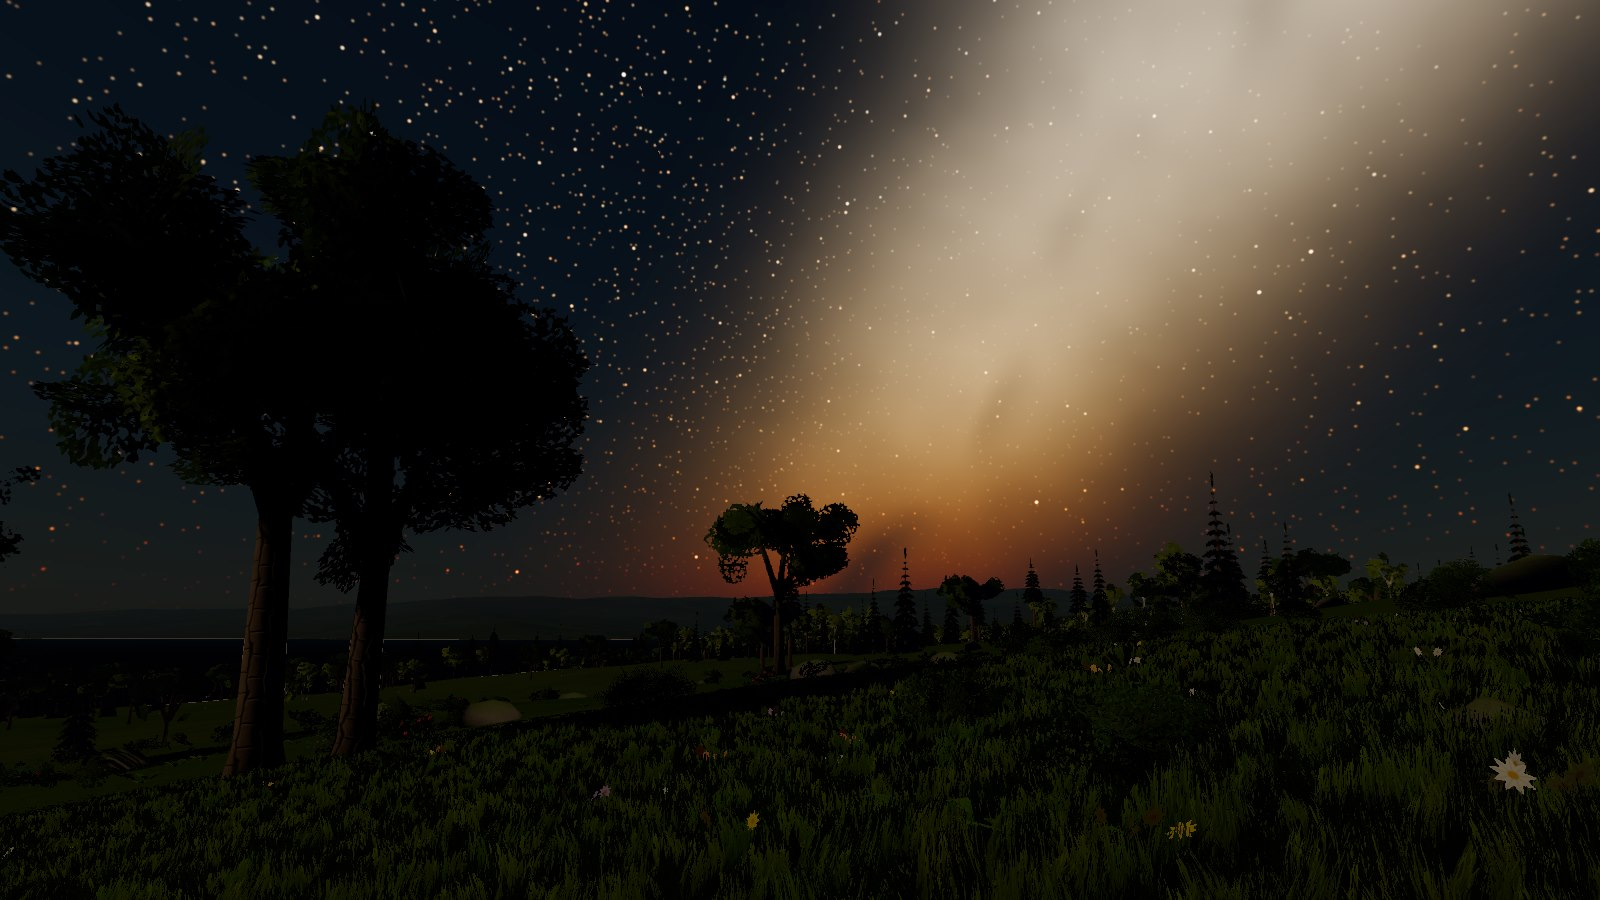
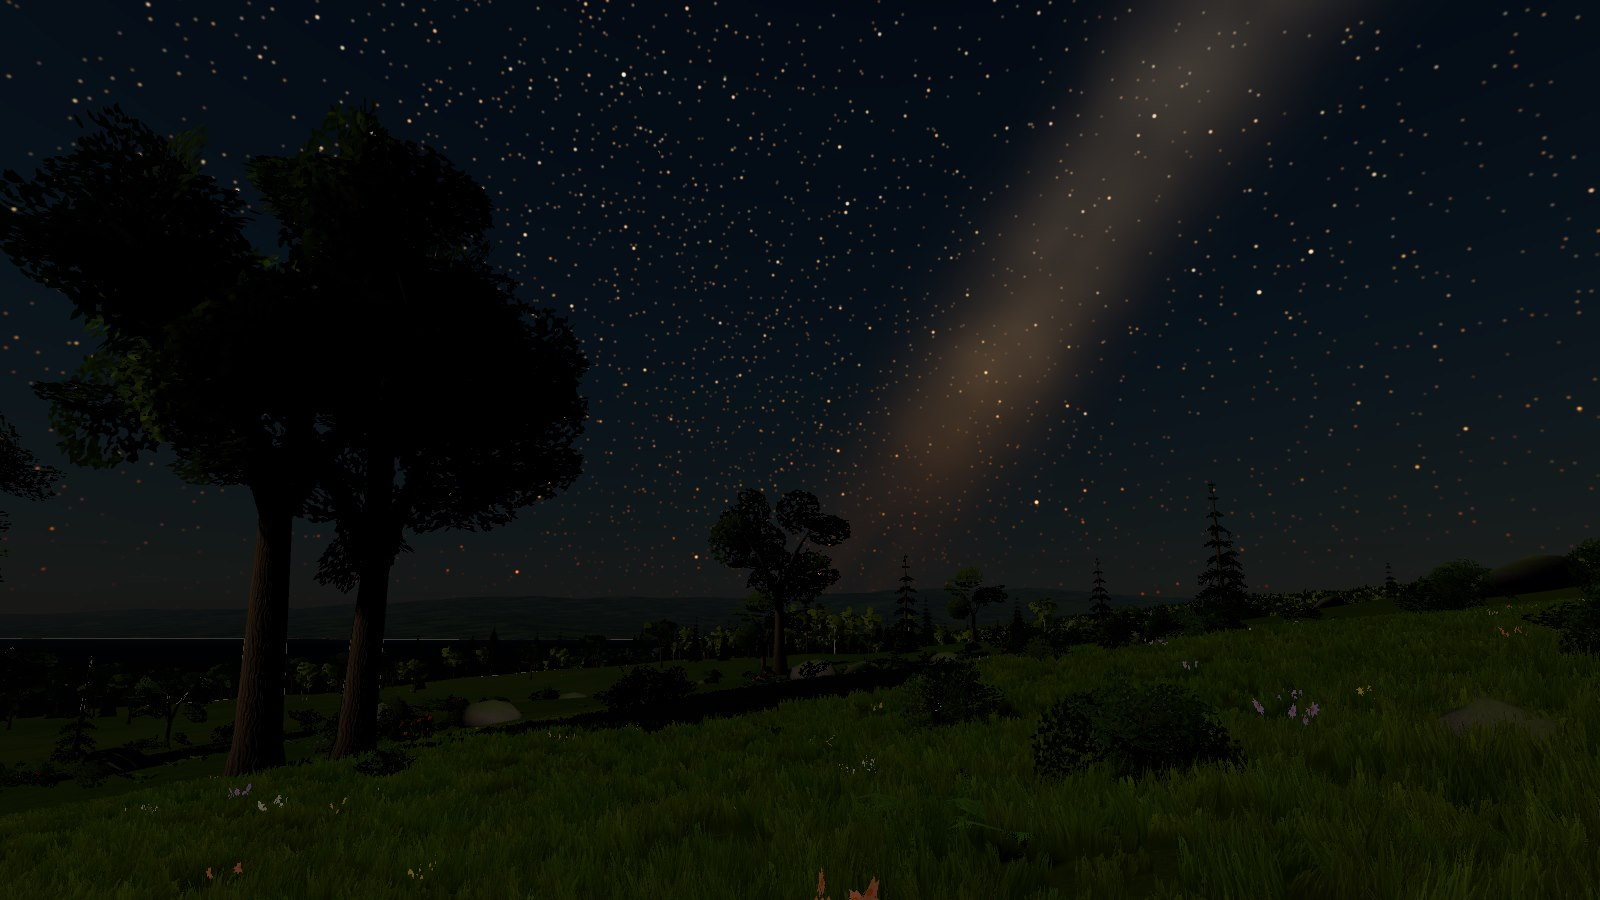
Surface polish: retaken look-dev views, docs
- docs/images/ground: the seven views retaken after the polish pass, plus
  golden-hour grass in shade, a forest clearing and the canopy from 2 km
  looking down.
- GROUND.md §3 and §4.6: forest floor and ground cover, bark, fir tops,
  levels of detail with timed cross-fades, far-forest canopy, night sky,
  coast, frame times; §11 updated.
- Dense meadows stay closed; only thin grass grows in patches.

diff --git a/docs/GROUND.md b/docs/GROUND.md
@@ -73,6 +73,9 @@ this is the one closest to an Earth-like place to live.
   - `e_beach.jpg`: the beach 4 km south, along the coast.
   - `f_forest.jpg`: inside the forest 600 m north, toward the sun.
   - `g_2km.jpg`: from 2 km above the landing site toward the hills, the bay on the left.
+  - Also: `b2_golden_shade.jpg` (the meadow at golden hour facing away from the sun, the grass in shade),
+    `f2_forest_clearing.jpg` (a forest clearing near the hills: sparse grass, ferns, litter, full fir crowns),
+    `g2_2km_down.jpg` (from 2 km looking steeply down: the canopy, groves and meadow edges).
   - `compare/`: the meadow and forest before and after the plants and grass were redone (same views and times).
 
 ---
@@ -304,49 +307,64 @@ Godot.
   grid with distance (no cracks: skirts), in a floating origin that moves with the camera without turning. Eight
   ground layers (texture arrays) blended by the vertices' material weights and their own heights, triplanar rock on
   cliffs, two scales near and a larger turned copy far so nothing repeats in rows; the grass layer takes the colour
-  of the grass blades (below); far forests colour the ground with their canopy where their impostors end.
+  of the grass blades (below). The forest floor is brown leaf litter with cushions of moss, and under trees the
+  canopy keeps much of the sky's light off the ground (sun flecks stay). Beach sand is lighter, with patches of
+  fine wind ripples near by; below the wave line and where the swash runs it is dark and glossy, with thin foam
+  lines left by the waves.
+- **Far forests:** where the trees' impostors end (2.2 km along the ground, so from the air the forest below keeps
+  its trees) the ground draws the canopy: a tiling crown map with its own slopes lit by the sun, groves at a larger
+  scale, stands of dark conifers and lighter broadleaf, dark gaps between crowns, and crisp irregular forest edges
+  with a shadow line on the open side. Seen steeply from the air (where billboards would be slivers) the canopy
+  replaces the impostors.
 - **Air and light:** the sun (star B) and the moon at their real directions for the universe time; scattering for the
   thick air (transmittance and multiple-scattering tables, the sky ray-marched at quarter resolution) and the same air
   in front of everything through a 3D aerial-perspective table. Clouds: a layer of fair-weather cumulus (1.6–2.9 km,
-  cover 0.35) with cloud shadows. Night: the two white dwarfs, the other planets, a star field and the galaxy's band;
-  moonlight on the ground is brightened six times (dark but readable, as in Rust), the moonlit air only 1.5 times;
-  the moon's disc is capped a few times above white so it never blooms over the sky. Exposure meters for the light
+  cover 0.35) with cloud shadows. Night: the two white dwarfs, the other planets, a star field and a narrow, dim
+  band of the galaxy broken into structure; moonlight on the ground is brightened 14 times and turned a little blue
+  (dark but readable, as in Rust), the moonlit air only 2.5 times; the moon's disc is capped a few times above white
+  so it never blooms over the sky. Exposure meters for the light
   falling on the ground, nights a few stops darker than days.
 - **Water** reflects the sky and sun with Fresnel, shows the sea floor through water that absorbs red first, glows
-  turquoise in the shallows, foams on the shore and moves with Gerstner swell near the camera.
+  turquoise in the shallows and moves with Gerstner swell near the camera. Surf: broken lines of foam roll in over
+  the shallows along the depth contours, and a swash of foam runs up the sand and back.
 - **Plants** are made in code after hollow-orbit's flora (no plant models): firs (spruce-like), pines, birches,
   broadleaf trees (oak and beech), bushes, red- and blue-berry bushes, ferns and boulders; two to four seeded variants
   per species, each with two meshes. Leaves are cards of a painted atlas (4 × 4 cells, mipmaps that keep the share of
   leaf texels so far foliage does not thin), alpha-tested with alpha to coverage, with vertex-colour occlusion,
   normals pointing out of the crown, hollow-orbit's foliage light (a warm sheen with the sun behind the viewer, light
-  through leaves that face away from it) and little specular. Bark: painted plates and fissures with a normal map.
-  Boulders: icospheres cut into facets, textured with the ground's rock layer in their own frame, moss on top.
-  - *Levels:* trees draw their full mesh to 58 m, then impostors to 2.2 km (eight views of every variant, colour and
-    normals, rendered into an atlas when the view opens); the second mesh only casts shadows, to 250 m; past 1.6 km
-    forests become canopy colour on the ground. Bushes, ferns and rocks use their second mesh to 75–200 m and shrink
-    into the ground at the end. Cross-fades are complementary dithers; distances are the main camera's, also in
-    shadow passes.
+  through leaves that face away from it) and little specular. Bark: fine wandering vertical fissures, cross-cracks,
+  lichen and colour variation, with a normal map; moss low on the trunk's north side. Firs and pines end in small
+  upturned whorls and a needled leader, not a bare spike. Boulders: icospheres cut into facets, textured with the
+  ground's rock layer in their own frame, moss on top.
+  - *Levels:* trees draw their full mesh to 50 m, their second mesh to 170 m, then impostors to 2.2 km (eight views
+    of every variant, colour and normals, rendered into an atlas when the view opens); the near set's impostors and
+    the far blocks' meet at an exact cut (290 m). Each object keeps its level between rebuilds, with a few metres of
+    hysteresis; when it changes level the two cross-fade over 0.45 s (complementary dithers), so no crown stands
+    half-dithered at a boundary. Bushes, ferns and rocks use their second mesh to 75–200 m and shrink into the ground
+    at the end. Past 1.6–2.2 km forests are drawn by the ground (above).
   - *Wind:* every vertex carries a bend weight and a flutter weight; the plant bends along the wind with gusts that
     roll across the forest, leaves flutter along their normals.
   - Each plant is a scatter object, known by tile and index; berry bushes are their own kinds (`BerryRed` 7,
     `BerryBlue` 8) because they will be food.
-- **Grass** is not in the scatter and has no models: `GrassField` draws one MultiMesh of blade tufts on a 0.4 m grid
-  that follows the camera (to 42 m; they shrink into the ground from 22 m). Each tuft's place, height, width, turn,
-  lean, colour, dryness and kind (grass, meadow grass, dry grass, flowers) come from a hash of its ground cell in
-  stable coordinates, so nothing shifts as the grid moves. A field texture (256² at 0.5 m, rebuilt on a worker every
-  14 m) holds the ground's height (the finest tiles' own triangles, so tufts sit on the drawn ground), the grass
-  density (from the biomes, materials and slope), moisture and flowers. The blades are hollow-orbit's painted blade
-  cards spread over each cell, coloured by one function shared with the ground's grass layer
-  (`surface_grass.gdshaderinc`), their foot in the ground's colour, normals mostly up so a field lights as one, light
-  through the tips toward a low sun; wind bends them in gusts drifting downwind with a ripple; they bend away from the
-  walker's feet.
+- **Grass and ground cover** are not in the scatter and have no models: `GrassField` draws one MultiMesh of tufts on
+  a 0.4 m grid that follows the camera (to 42 m; they shrink into the ground from 22 m), and a second, flat one of
+  leaf litter, needles and twigs (to 26 m). What grows in each cell (place, height, width, turn, lean, colour,
+  dryness, kind: grass, meadow grass, dry grass, flowers; ferns, herbs and seedlings under trees; dead leaves of the
+  trees around) comes from a hash of the cell in stable coordinates, so nothing shifts as the grid moves. Two field
+  textures (256² at 0.5 m, rebuilt on a worker every 14 m) hold the ground's height (the finest tiles' own
+  triangles, so tufts sit on the drawn ground), the grass density (from the biomes, materials, slope and tree
+  cover), moisture, flowers, forest cover and small plants. Where grass is thin it grows in patches, and a tuft is a
+  few narrow cards of ragged blades, not a block. The blades are hollow-orbit's painted blade cards, coloured by one
+  function shared with the ground's grass layer (`surface_grass.gdshaderinc`), their foot in the ground's colour,
+  normals up on both faces so a field lights as one in sun and shade, light through the tips toward a low sun; wind
+  bends them in gusts drifting downwind with a ripple; they bend away from the walker's feet.
 - **Time:** the clock runs at the universe time; `RotationTimeScale` (client setting `[surface]
   rotation_time_scale` in `user://settings.cfg`, or `--time-scale`) turns the planet faster than real without
   moving anything else. Keys: `[` `]` jump the clock an hour (Shift: six), T cycles the day speed 1×, 60×, 600×,
   3600×, P pauses, H hides the interface; a card in the corner shows local solar time, UTC and the speed.
   Screenshots pause at `--time`.
-- **Speed** (1600 × 900, RTX 2070 Super, vsync on): 11 ms a frame (90 fps) at the landing site with 4,000 plant
-  meshes, 414,000 impostors and 45,000 grass tufts; 13–15 ms (65–77 fps) above dense forest; 6–7 ms from the air.
+- **Speed** (1600 × 900, RTX 2070 Super, vsync on): 11–12 ms a frame (85–89 fps) at the landing site with 3,300
+  plant meshes, 414,000 impostors and 45,000 grass tufts; 13–15 ms (65–73 fps) inside dense forest; 7 ms from 2 km.
   Opening the view takes about 4 s (tiles, the painted atlas and the plants, then the impostor bake).
 - **Look-dev commands** for the views in §3 (add `--shot <file> --hide-ui` to save them):
   - (a) `--view surface --alt 1.7 --yaw 60 --pitch -2 --time 2026-10-12T03:00:00Z`;
@@ -355,7 +373,7 @@ Godot.
   - (d) `--view surface --lat 44.97185 --lon -169.84163 --alt 60 --yaw 45 --pitch -4 --time 2026-10-12T03:00:00Z`;
   - (e) `--view surface --lat 44.83304 --lon -169.99447 --alt 1.7 --yaw 20 --pitch -2 --time 2026-10-12T03:00:00Z`;
   - (f) `--view surface --lat 44.87400 --lon -169.99949 --alt 1.7 --yaw 120 --pitch 6 --time 2026-10-12T03:00:00Z`;
-  - (g) `--view surface --alt 2000 --yaw 20 --pitch -6 --time 2026-10-12T03:00:00Z`.
+  - (g) `--view surface --alt 2000 --yaw 20 --pitch -14 --time 2026-10-12T03:00:00Z`.
 - **The interface between the two G1 work packages** is `ISurface` in Hollow.Surface: height at a point, biome at a
   point (`BiomeAt`), collision for a zone square, scatter for a tile (`ScatterFor`). The last two have default
   implementations, so other `ISurface`s keep compiling.
@@ -1082,8 +1100,9 @@ Decisions taken during G2 (step "Survive") without the owner, to confirm or over
 29. **Natural objects' bodies** take free IDs after the ground tiles', so two props touched at once may sort differently
     on the client than on the server, costing a small correction (§6.1).
 30. **Decisions taken in the surface work** (to confirm):
-   - Plants are generated in code in hollow-orbit's style rather than scanned models; trees switch to impostors at
-     58 m, which keeps the frame time near 11 ms.
+   - Plants are generated in code in hollow-orbit's style rather than scanned models; trees switch to their second
+     mesh at 50 m and to impostors at 170 m, which keeps the frame time near 11 ms. Forests farther than 2.2 km are
+     drawn by the ground's canopy, not by trees: a scatter that far would take minutes to generate.
    - Three Megascans surfaces on disk (Mossy Ground `tj4ocdjr`, Tundra Lichened Rock `vjbode1mw`, Tundra Mossy Ground
      `vjulbjjr`) have no listing on record, so they were replaced by listed sets and Poly Haven CC0 sets. The six
      listings used were checked on 2026-10-13: all six say "License terms: Standard License", and none says "licensed
